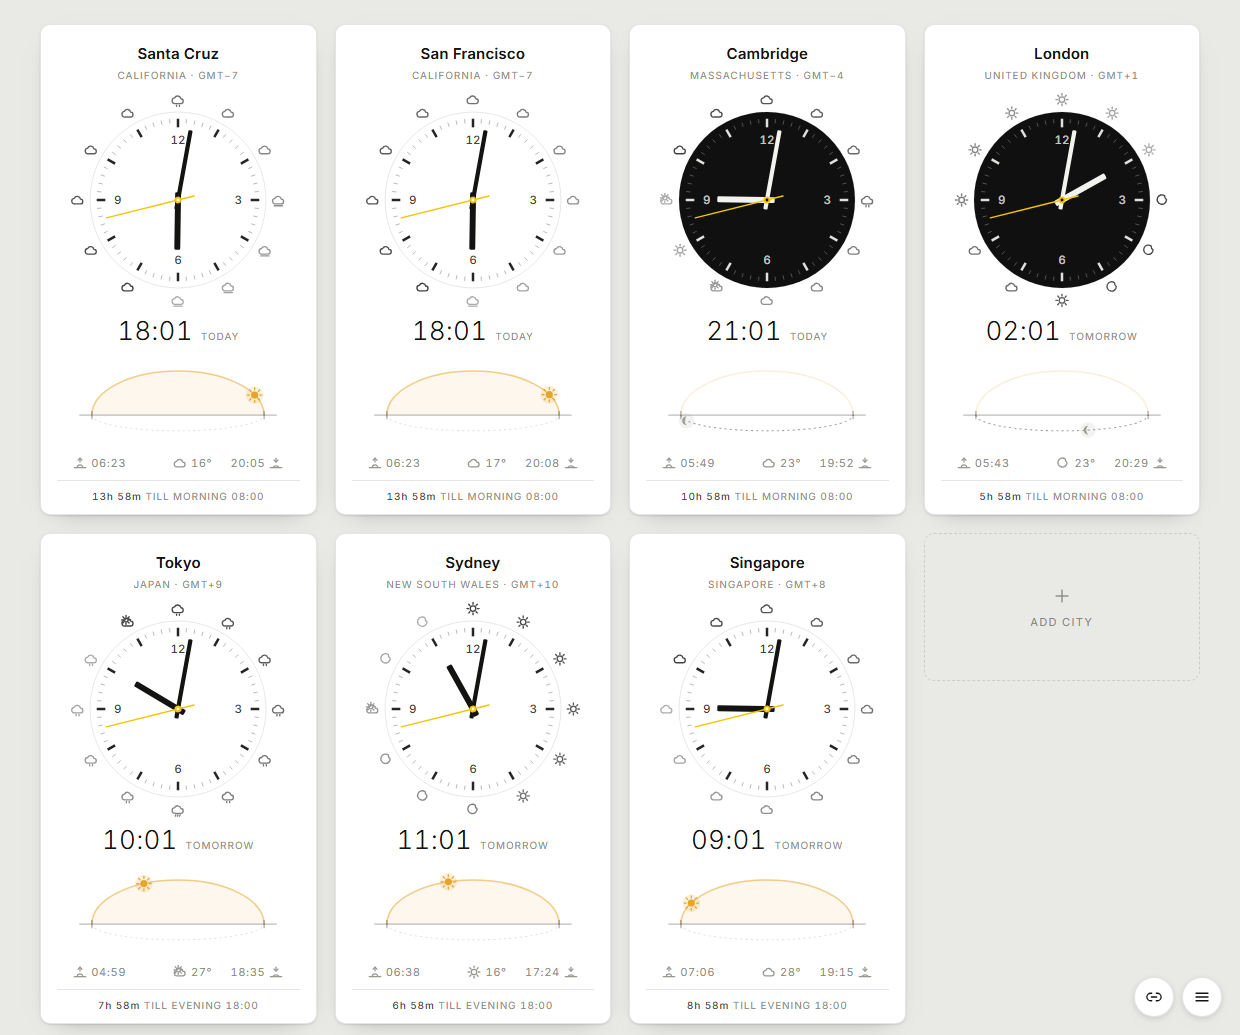
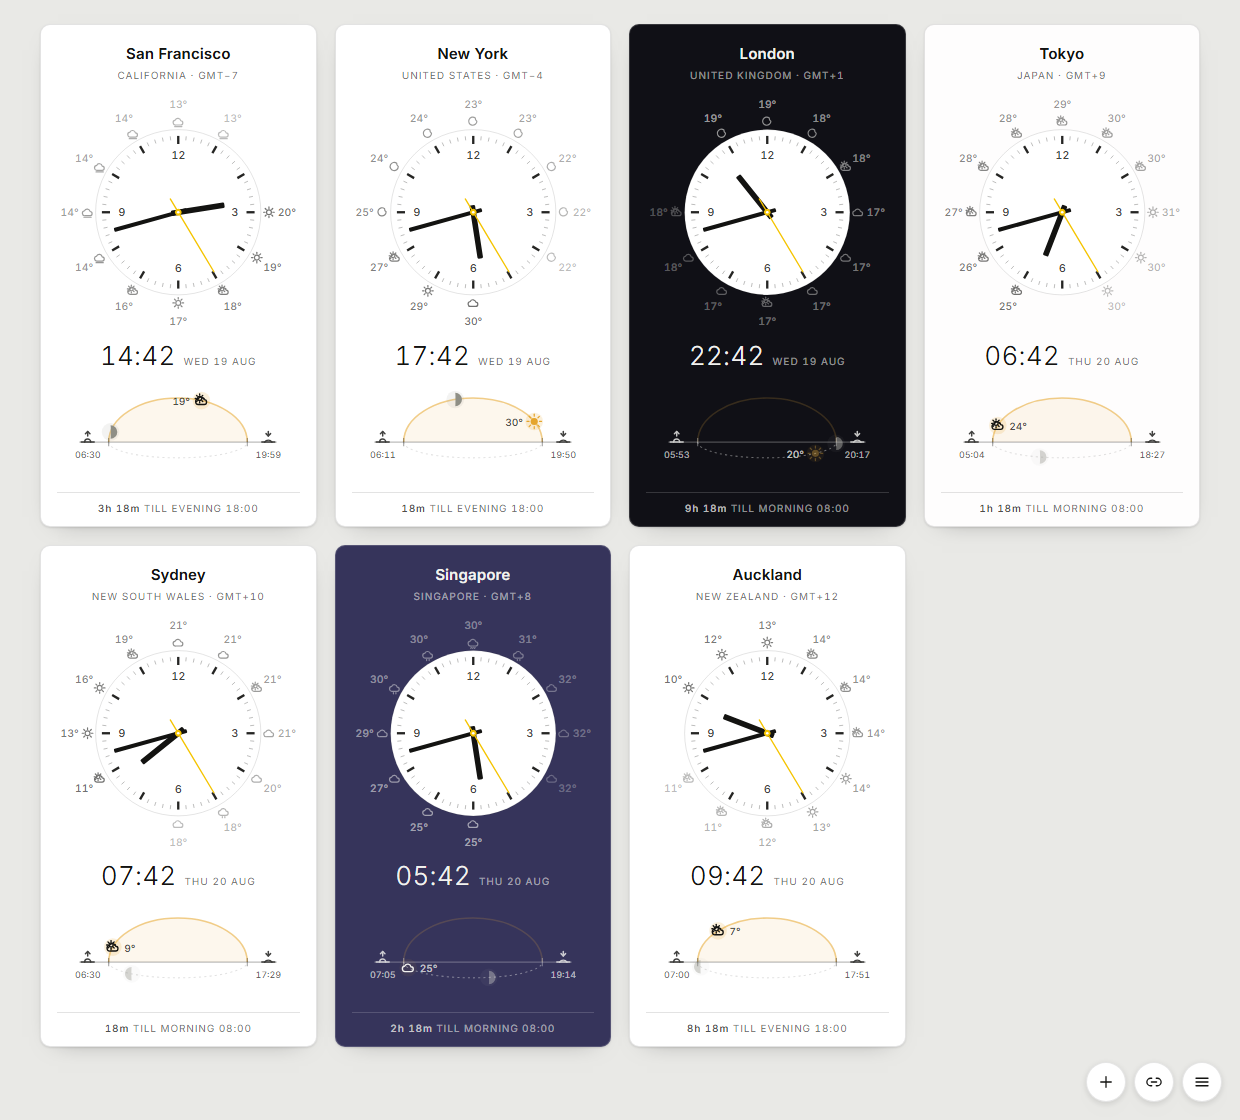
Reshoot every screenshot against the current board
The docs images predated several releases. settings.png showed four sections of
a menu that now has fourteen, and two of those four have since been renamed. The
board shots still had icon-only rings, sunrise and sunset in a footer row, TODAY
and TOMORROW where the weekday now goes, an in-grid Add city tile, and a moon
drawn without a phase.

Everything is reshot from the real app with a rig that only seeds localStorage
and drives the UI, so what lands in each png is the app's own painted output.
Two things needed care.

Weather: under a virtual time budget the DOM dump races ahead of the network, so
a dumped page shows no forecast at all, and the first screenshots lost the last
two cities to fetches still in flight. The rig now keeps worldclock.wx.* rather
than clearing all of localStorage, and every shot runs twice against one
profile, so the second run paints from the warm cache.

The phone: headless Edge will not open a window narrower than about 510 CSS px.
compact-phone.png narrows the page to 390 and pushes it against the viewport's
right edge, where the dock is already fixed, so cropping the right 390px puts
every control where a 390px phone would put it. Compact density overrides the
whole max-width:420px block, so nothing else depends on the real viewport width.

second-hand.gif is rebuilt by pinning Date.now() per frame. Stepping
--virtual-time-budget was tried first and rejected: the phase tracks how long
[…]

diff --git a/CLAUDE.md b/CLAUDE.md
@@ -24,10 +24,13 @@ deploy landed by comparing bytes, which should equal `wc -c index.html`:
     curl -so /dev/null -w '%{size_download}\n' https://timezones.cc/
 
 Anything added at the repo root ships to the public site unless `.assetsignore` excludes
-it. `npx wrangler deploy --dry-run` should report **7 assets**: `index.html`,
-`favicon.svg`, `manifest.webmanifest`, `sw.js` and three icons. If that number grows,
-something is leaking. An earlier manual upload published the entire `.git` directory this
-way, and it was live for two days.
+it. `npx wrangler deploy --dry-run` must ship exactly **7 assets**: `index.html`,
+`favicon.svg`, `manifest.webmanifest`, `sw.js` and three icons. Wrangler 4 no longer
+prints that count, only `Read N files from the assets directory`, which counts
+everything it walked before `.assetsignore` applied. Run it under `WRANGLER_LOG=debug`
+and read the `Ignoring asset:` lines instead: whatever is not listed there ships. If
+anything beyond those seven survives, something is leaking. An earlier manual upload
+published the entire `.git` directory this way, and it was live for two days.
 
 ## How to verify a change
 
@@ -131,13 +134,10 @@ row means bumping it, or old caches get read past their end.
    explicitly not a feature here, so modules are fine. `worker/` must go in
    `.assetsignore`, and note that the Worker stops being assets-only, so a broken `main`
    takes the whole site down rather than just the API.
-2. **Screenshots in `docs/` are stale**, `settings.png` most of all: it predates the Hours
-   pickers, the presets, the date formats and the ring metric, and the README links to it
-   from the Configuration section.
-3. **Compact URLs**, parked at the user's request. The recommendation was two base64url
+2. **Compact URLs**, parked at the user's request. The recommendation was two base64url
    characters per city, an append-only city table so codes stay stable, and a checksum
    guard that shouts if the table is ever reordered.
-4. **Air quality**, available and deliberately not wired up. Open-Meteo serves pm2.5,
+3. **Air quality**, available and deliberately not wired up. Open-Meteo serves pm2.5,
    pm10, European and US AQI, ozone and nitrogen dioxide from
    `air-quality-api.open-meteo.com`, free and keyless, but on a second endpoint. It wants
    its own opt-in setting, off by default, rather than a second request per city for

diff --git a/README.md b/README.md
@@ -17,7 +17,7 @@ the domes show no icons; clocks, sunrise and sunset are computed locally.
 The board is the whole page. Controls are three floating buttons in the bottom-right:
 add a city, copy-link, and settings.
 
-Each card carries a dial, a twelve-hour forecast ring, the local time, a sky dome
+Each card carries a dial, an eleven-hour forecast ring, the local time, a sky dome
 showing where the sun is in that city's day, and a countdown to the next end of the
 working day.
 
@@ -27,12 +27,12 @@ The second hand is a continuous sweep at real speed, not a once-a-second tick. M
 off the dial, it moves 1.5° every quarter second rather than jumping 6° and sitting
 still.
 
-![Day, dusk and night side by side](docs/card-detail.png)
+![Night, dawn and full day side by side](docs/card-detail.png)
 
-Tokyo in full daylight, Delhi mid-fade at 06:10, London at night. The card is the
-sky: it darkens with the city, through sunset and dusk to night, and the dial stays
-pale on it like a moon. The page itself follows your own clock, not the board's, so
-adding a city never flips the whole screen.
+London at night, Singapore mid-fade at 05:46, San Francisco in full daylight. The
+card is the sky: it darkens with the city, through sunset and dusk to night, and the
+dial stays pale on it like a moon. The page itself follows your own clock, not the
+board's, so adding a city never flips the whole screen.
 
 ![The dashboard at night](docs/board-dark.png)
 
@@ -319,7 +319,7 @@ the countdown at the foot of each card, and the dark hours, which are what shade
 on *Working hours*. Four hour pickers, labelled in whichever format you have chosen, and
 persisted like every other setting.
 
-![The hour pickers in the settings menu](docs/settings.png)
+![The hour pickers in the settings menu](docs/hours.png)
 
 The window that counts as night is read as a window on the 24-hour circle rather than
 as an overnight span, so either order of its two ends means something: `20:00` to `06:00`
